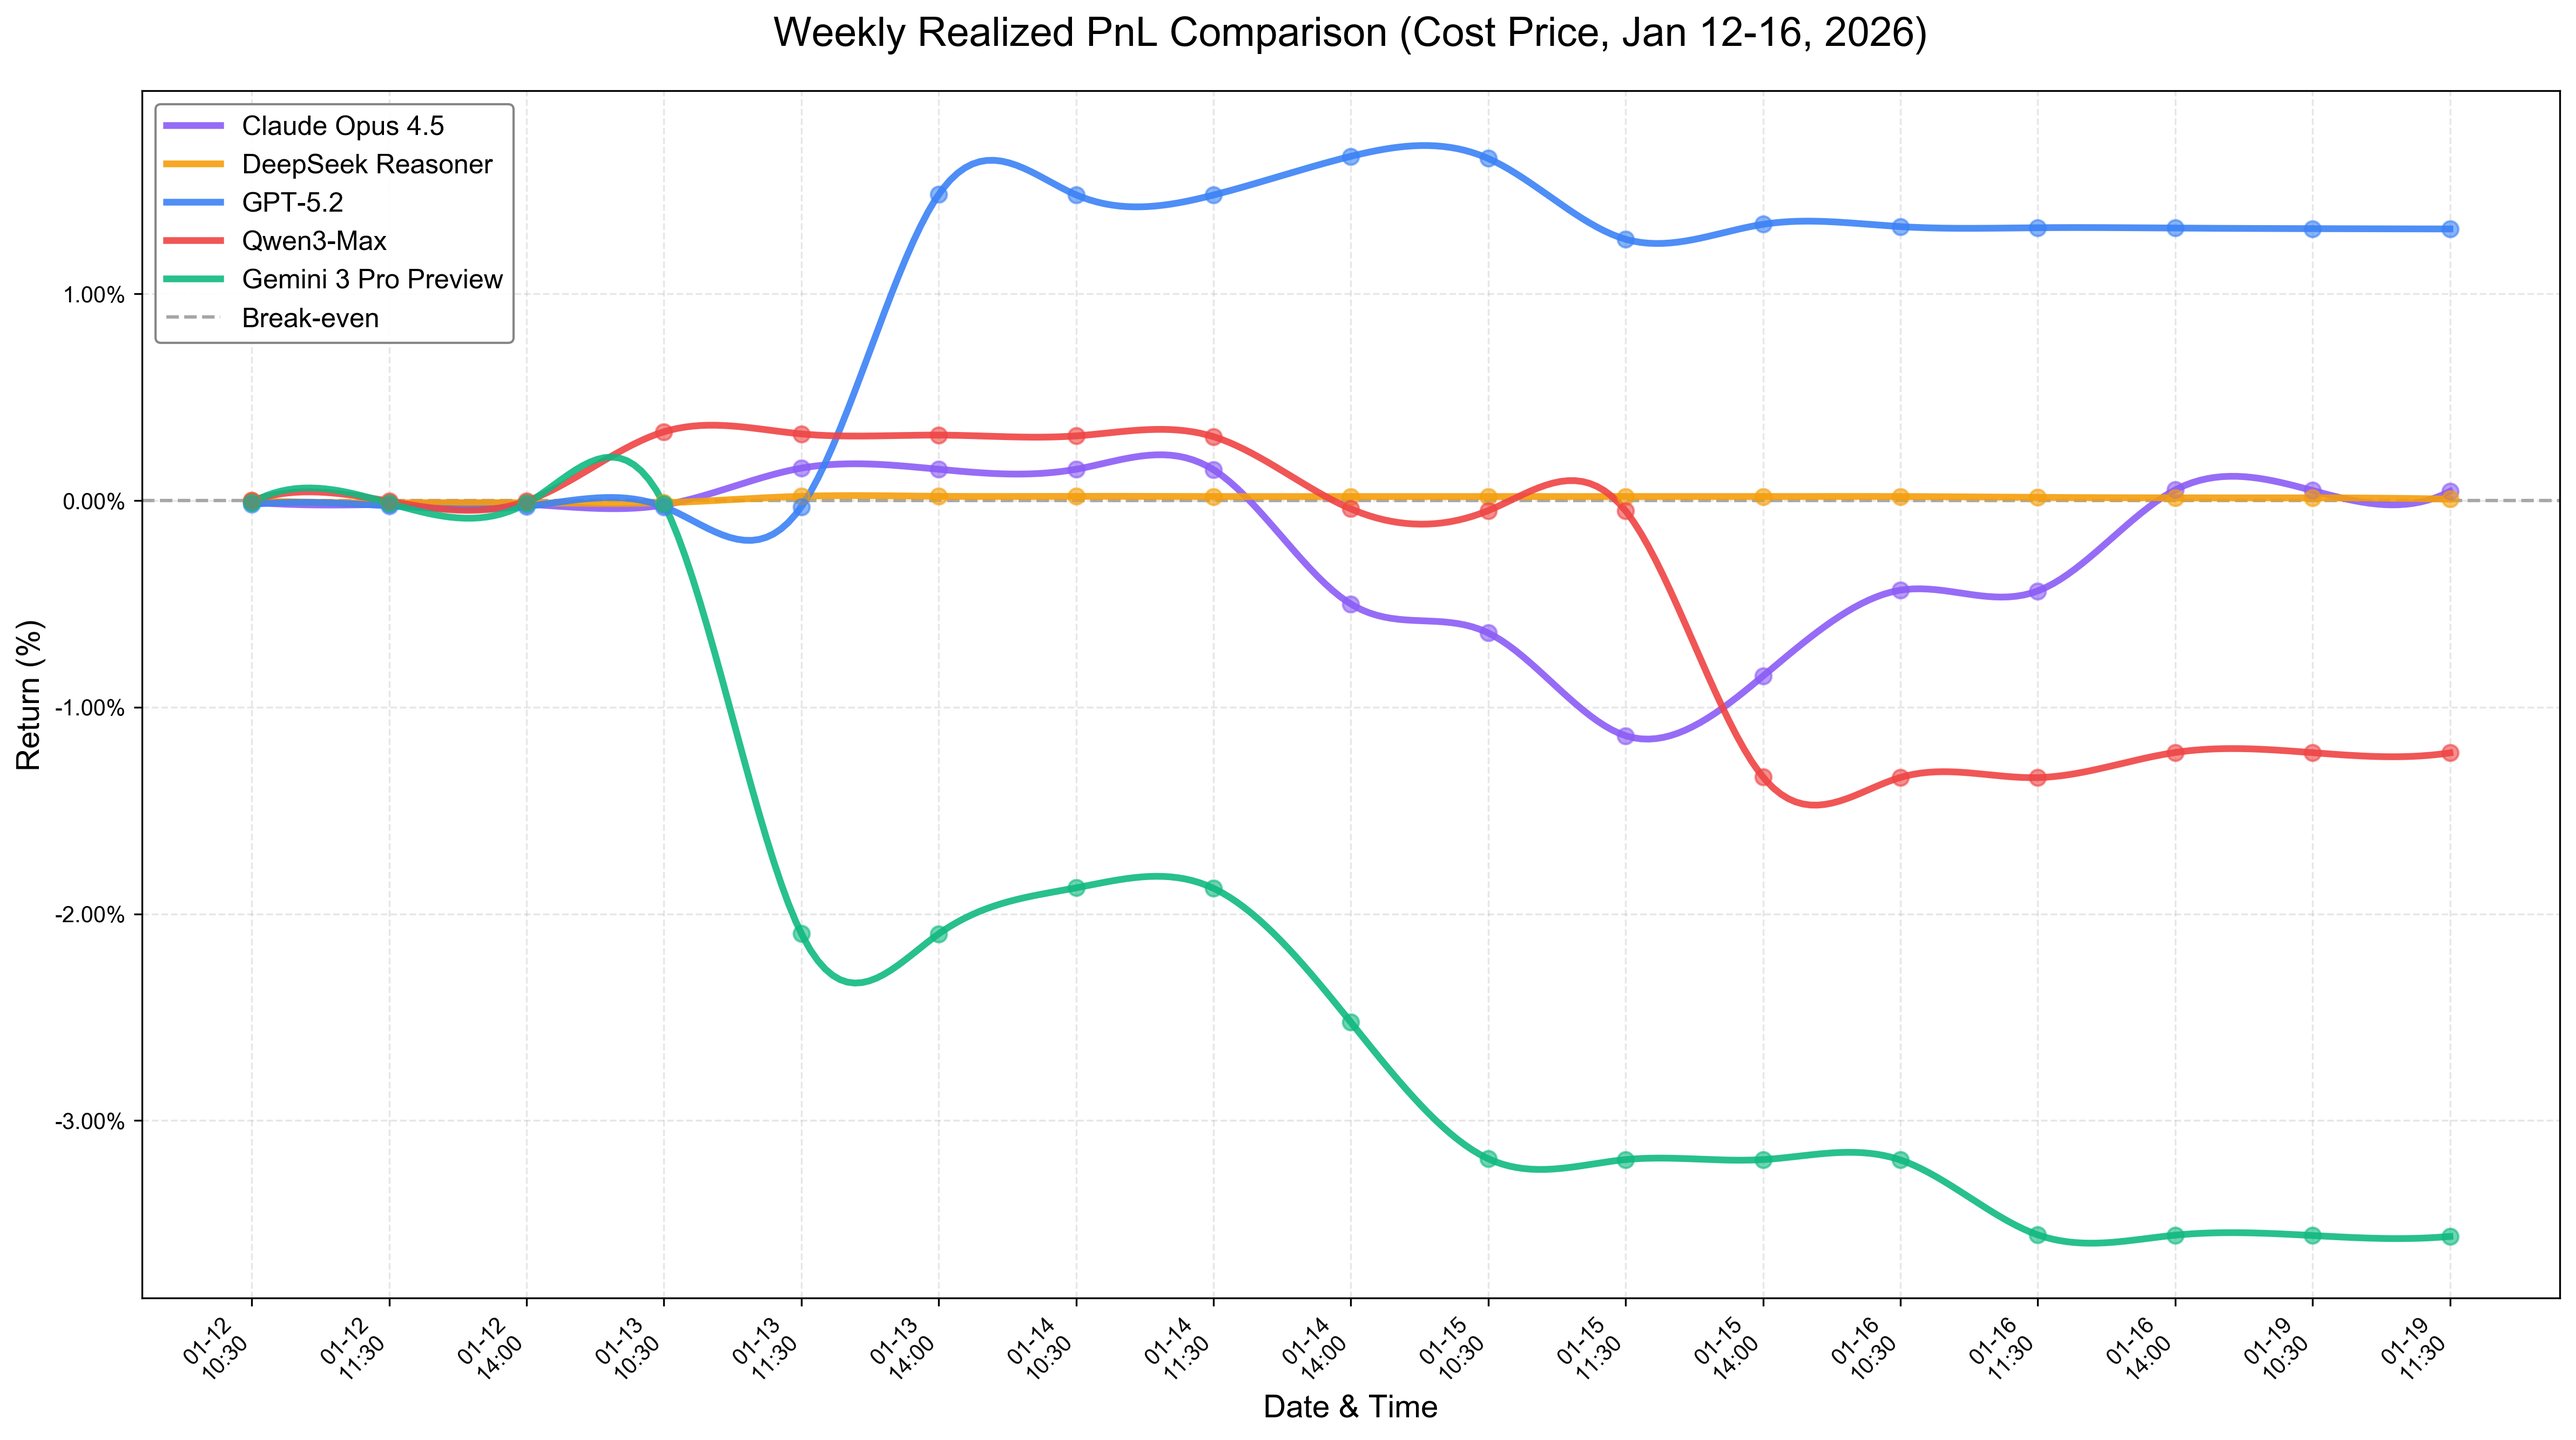
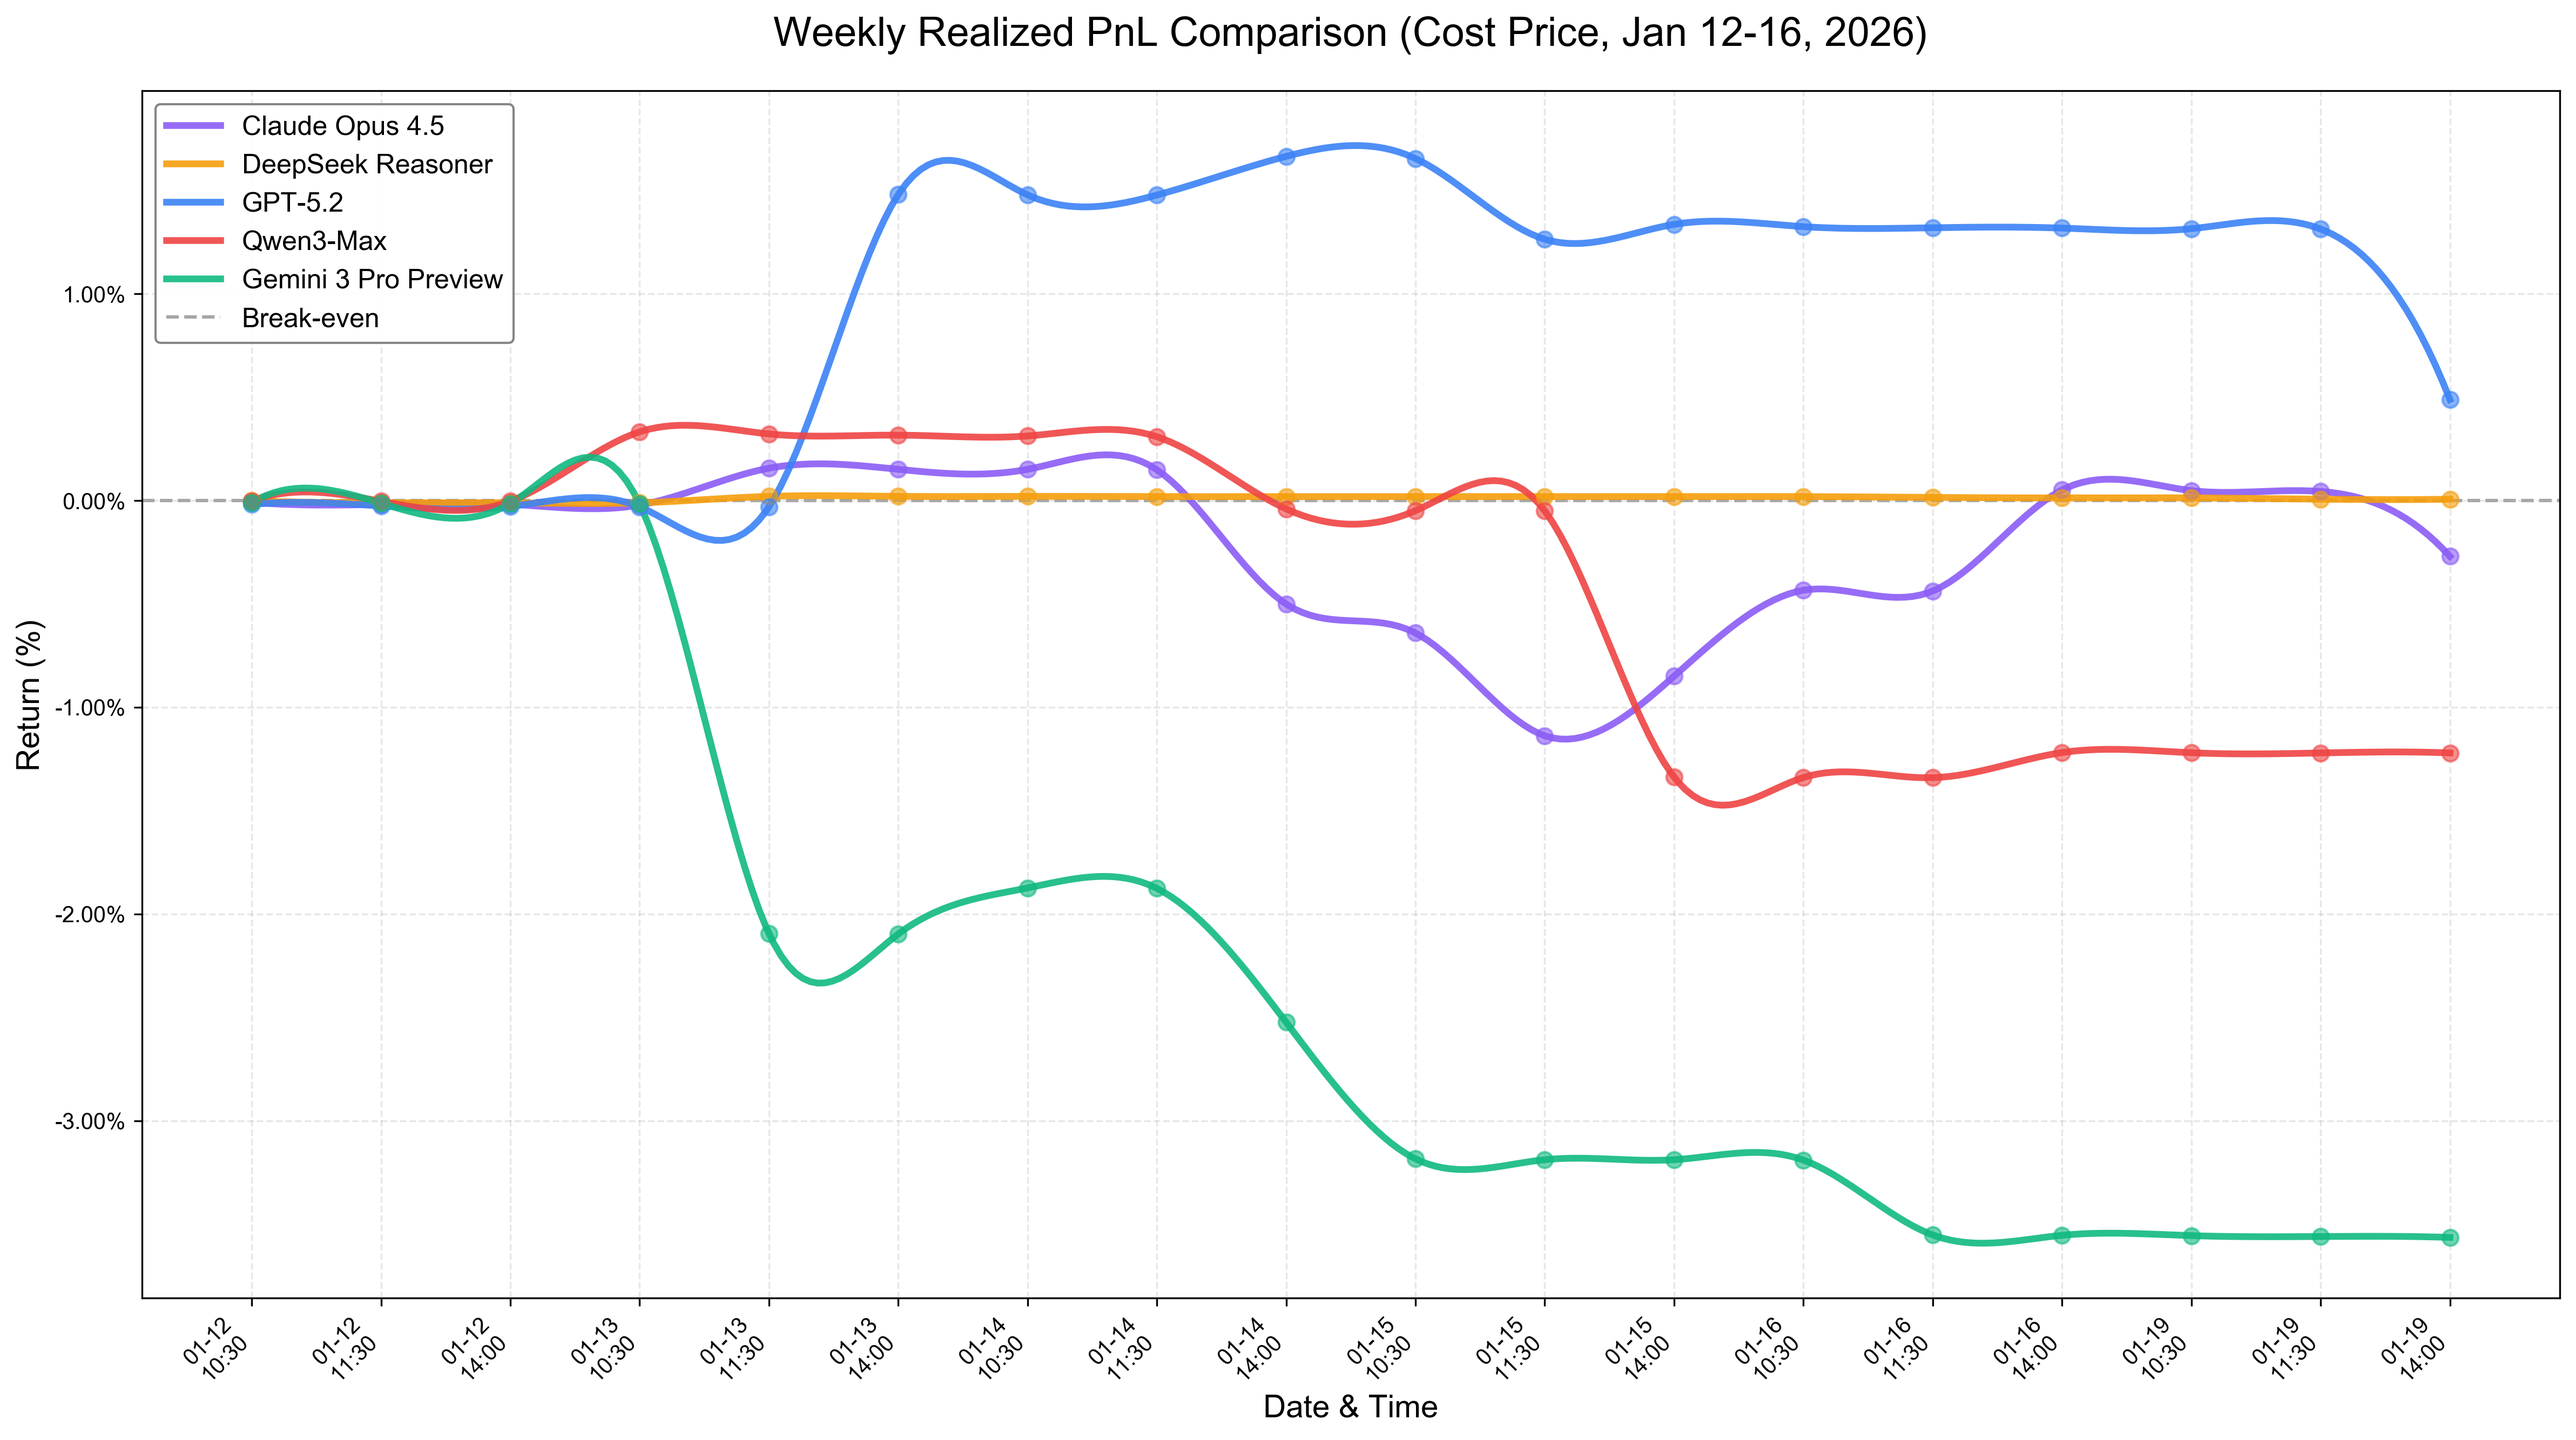
update - 2026-01-19

diff --git a/experiments/visualizations/performance_summary.md b/experiments/visualizations/performance_summary.md
@@ -2,8 +2,8 @@
 
 | Model | Latest Return | Max Return | Min Return | Volatility |
 |-------|---------------|------------|------------|------------|
-| Claude Opus 4.5 | 0.04% | 0.16% | -1.14% | 0.38% |
+| Claude Opus 4.5 | -0.27% | 0.16% | -1.14% | 0.37% |
 | DeepSeek Reasoner | 0.01% | 0.02% | -0.01% | 0.01% |
 | Gemini 3 Pro Preview | -3.56% | -0.01% | -3.56% | 1.34% |
-| GPT-5.2 | 1.31% | 1.67% | -0.03% | 0.67% |
-| Qwen3-Max | -1.22% | 0.33% | -1.34% | 0.69% |
+| GPT-5.2 | 0.49% | 1.67% | -0.03% | 0.66% |
+| Qwen3-Max | -1.22% | 0.33% | -1.34% | 0.70% |
